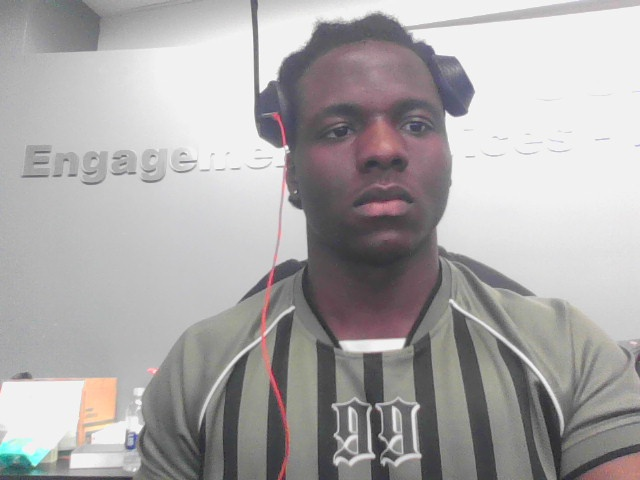
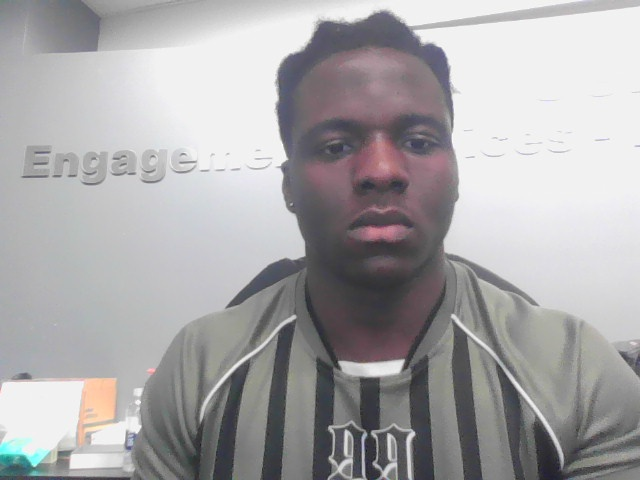
did some detection stuff

diff --git a/Drone Stuff/Circle Detection/roboflow circle detection/circle_detection_trial2.py b/Drone Stuff/Circle Detection/roboflow circle detection/circle_detection_trial2.py
@@ -1,0 +1,80 @@
+from roboflow import Roboflow
+import cv2
+import os
+from dotenv import load_dotenv
+
+# ======= Load API key from .env =========
+
+
+# ======= Setup Roboflow ========
+print("Loading Roboflow workspace...")
+rf = Roboflow(api_key="LKMNlvypynSJUmpg6Wf9")
+ws = rf.workspace()
+print(f"Workspace: {ws.name}")
+
+# Use your exact project ID (without workspace prefix)
+project = ws.project("circle-9po6m-sw919")
+model = project.version(1).model
+print(f"Loaded project: {project.name}")
+
+# ======= Video capture ========
+cap = cv2.VideoCapture(0)
+FRAME_W = 640
+FRAME_H = 480
+CENTER_X = FRAME_W // 2
+CENTER_Y = FRAME_H // 2
+THRESHOLD = 40  # pixels for movement commands
+
+print("Starting detection... Press ESC to exit.")
+
+while True:
+    ret, frame = cap.read()
+    if not ret:
+        break
+
+    frame = cv2.resize(frame, (FRAME_W, FRAME_H))
+    cv2.imwrite("temp.jpg", frame)  # Roboflow needs an image file
+
+    # ======= Get predictions from Roboflow =======
+    result = model.predict("temp.jpg", confidence=40, overlap=30).json()
+
+    if len(result["predictions"]) > 0:
+        pred = result["predictions"][0]
+        cx = pred["x"]
+        cy = pred["y"]
+        w = pred["width"]
+        h = pred["height"]
+
+        # ======= Draw bounding box & center =======
+        top_left = (int(cx - w/2), int(cy - h/2))
+        bottom_right = (int(cx + w/2), int(cy + h/2))
+        cv2.rectangle(frame, top_left, bottom_right, (0, 255, 0), 2)
+        cv2.circle(frame, (int(cx), int(cy)), 5, (0, 0, 255), -1)
+
+        # ======= Print detection confirmation =======
+        print(f"✅ Circle detected at ({cx:.1f}, {cy:.1f})")
+
+        # ======= Movement directions =======
+        error_x = cx - CENTER_X
+        error_y = cy - CENTER_Y
+
+        if error_x > THRESHOLD:
+            print("MOVE RIGHT")
+        elif error_x < -THRESHOLD:
+            print("MOVE LEFT")
+
+        if error_y > THRESHOLD:
+            print("MOVE DOWN")
+        elif error_y < -THRESHOLD:
+            print("MOVE UP")
+
+    else:
+        print("❌ No circle detected")
+
+    # ======= Show webcam feed =======
+    cv2.imshow("Circle Detection", frame)
+    if cv2.waitKey(1) == 27:  # ESC key
+        break
+
+cap.release()
+cv2.destroyAllWindows()

diff --git a/Drone Stuff/Circle Detection/roboflow circle detection/circle_detection.py b/Drone Stuff/Circle Detection/roboflow circle detection/circle_detection.py
@@ -3,7 +3,7 @@ import cv2
 
 rf = Roboflow(api_key="LKMNlvypynSJUmpg6Wf9")
 ws = rf.workspace()
-project = ws.project("circle-4r41a-l5kcu")  # <-- use your exact project ID
+project = ws.project("circle-9po6m-sw919")  # <-- use your exact project ID
 model = project.version(1).model
 
 cap = cv2.VideoCapture(0)  # webcam
